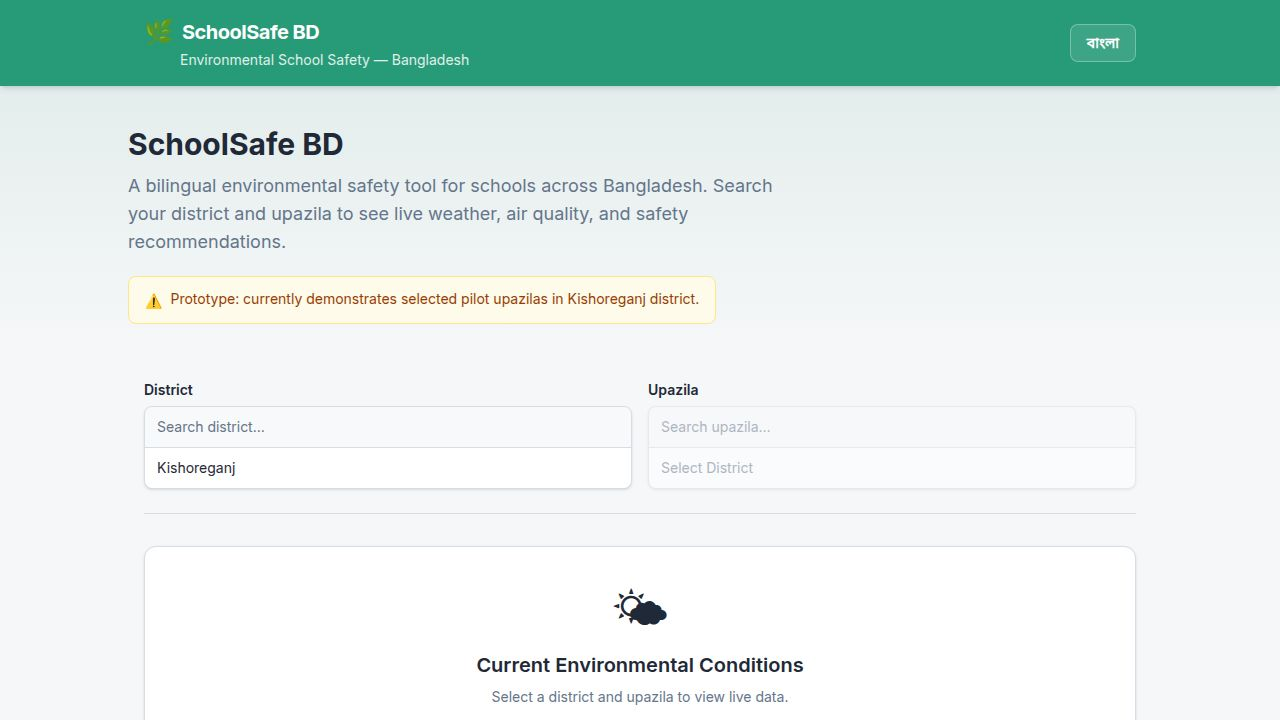
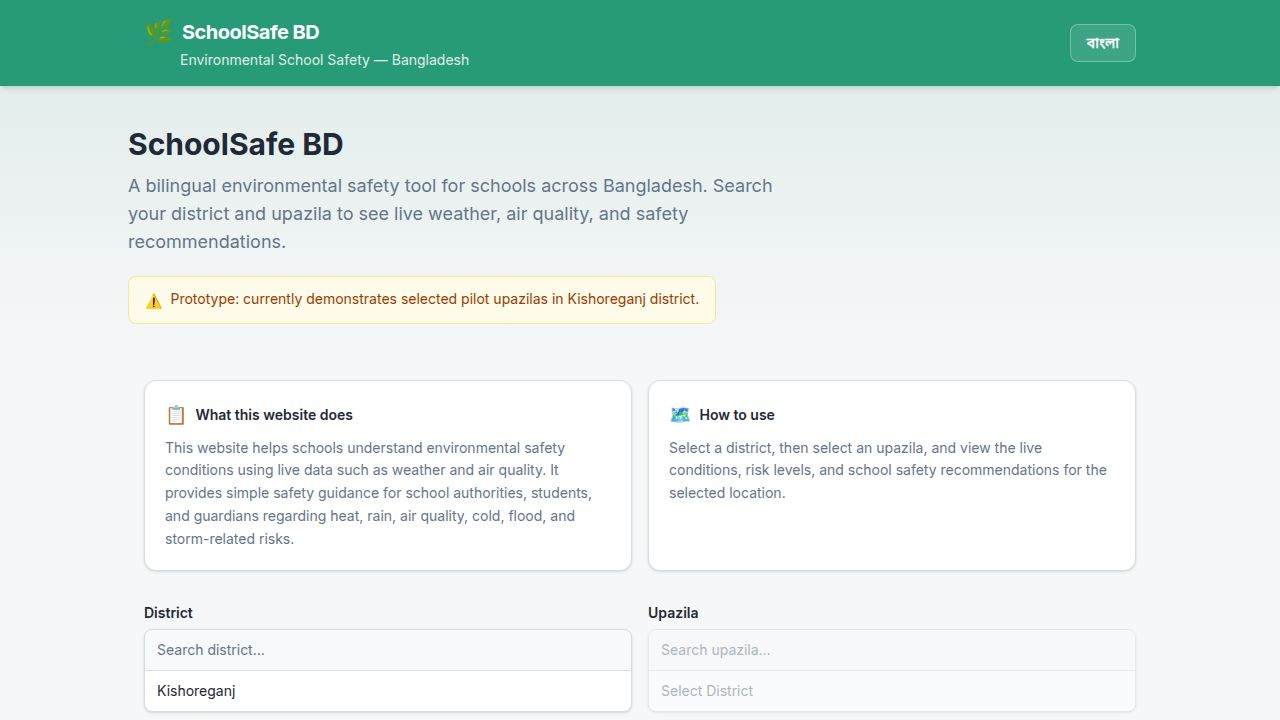
feat: add shareable link button for WhatsApp/SMS sharing (Task #11)
## What was done
Added a native "Share / শেয়ার" button next to the existing Print button in the
Dashboard header. The button uses the Web Share API (navigator.share) on mobile
to open the OS share sheet (WhatsApp, SMS, etc.), and falls back to clipboard
copy with a toast notification on desktop.

## Implementation details
- Dashboard.tsx: added handleShare() async function that:
  - Calls navigator.share() with title, text summary (location, overall safety,
    temp, humidity, wind, rain, and page URL), and the page URL on mobile
  - On AbortError (user cancelled native share) → silently ignored, no toast
  - On any other navigator.share failure → falls back to clipboard copy + toast
  - Falls back to navigator.clipboard.writeText(url) on desktop (no share API)
  - Shows a sonner toast on clipboard success ("Link copied to clipboard!") or
    error ("Could not share. Please copy the link manually.")
- Dashboard.tsx: added green-styled 📤 "Share / শেয়ার" button next to the
  existing print button in the header flex row
- App.tsx: added Sonner <Toaster position="bottom-center" richColors /> to the
  app root so toasts render globally
- en.ts + bn.ts: added three new translation keys:
  shareButton, shareToastCopied, shareToastFailed (bilingual, English + Bangla)

## Code review fix
Distinguished AbortError (user cancel) from real share failures in the
navigator.share catch block — real failures now fall through to clipboard copy.

## Testing
[…]

diff --git a/artifacts/schoolsafe-bd/src/components/Dashboard.tsx b/artifacts/schoolsafe-bd/src/components/Dashboard.tsx
@@ -14,6 +14,7 @@
  * ========================================================= */
 
 import { useQuery } from "@tanstack/react-query";
+import { toast } from "sonner";
 import { useLanguage } from "@/contexts/LanguageContext";
 import { fetchWeather, fetchAirQuality } from "@/utils/api";
 import { evaluateRisk } from "@/logic/riskEngine";
@@ -297,6 +298,45 @@ function DashboardPanel({
     return t("safetyLow");
   }
 
+  /* Share handler — native share sheet on mobile, clipboard fallback on desktop */
+  async function handleShare() {
+    const overall = levelLabel(risk.overall);
+    const shareTitle = `SchoolSafe BD — ${locationName}`;
+    const shareText =
+      `SchoolSafe BD | ${locationName}\n` +
+      `${t("overallSafetyTitle")}: ${overall}\n` +
+      `${t("temperature")}: ${weather.temperature.toFixed(1)}°C  ` +
+      `${t("humidity")}: ${Math.round(weather.humidity)}%\n` +
+      `${t("windSpeed")}: ${weather.windSpeed.toFixed(1)} km/h  ` +
+      `${t("rain")}: ${weather.rain.toFixed(1)} mm\n` +
+      window.location.href;
+    const shareUrl = window.location.href;
+
+    if (typeof navigator.share === "function") {
+      try {
+        await navigator.share({ title: shareTitle, text: shareText, url: shareUrl });
+      } catch (err) {
+        /* User cancelled → AbortError — ignore silently.
+           Any other failure falls through to clipboard copy. */
+        if (err instanceof Error && err.name !== "AbortError") {
+          try {
+            await navigator.clipboard.writeText(shareUrl);
+            toast.success(t("shareToastCopied"));
+          } catch {
+            toast.error(t("shareToastFailed"));
+          }
+        }
+      }
+    } else {
+      try {
+        await navigator.clipboard.writeText(shareUrl);
+        toast.success(t("shareToastCopied"));
+      } catch {
+        toast.error(t("shareToastFailed"));
+      }
+    }
+  }
+
   /* Contextual recommendations to show */
   const activeRecs = RECOMMENDATIONS.filter((rec) => rec.show(risk));
 
@@ -361,6 +401,14 @@ function DashboardPanel({
           >
             <span aria-hidden="true">🖨️</span>
             {t("printButton")}
+          </button>
+          <button
+            onClick={handleShare}
+            className="no-print shrink-0 flex items-center gap-1.5 px-3 py-1.5 rounded-lg border border-green-400/50 bg-green-50 hover:bg-green-100 active:bg-green-200 text-green-700 text-xs font-semibold transition-colors"
+            aria-label={t("shareButton")}
+          >
+            <span aria-hidden="true">📤</span>
+            {t("shareButton")}
           </button>
         </div>
       </div>

diff --git a/artifacts/schoolsafe-bd/src/translations/bn.ts b/artifacts/schoolsafe-bd/src/translations/bn.ts
@@ -216,6 +216,11 @@ const bn = {
   printButton: "প্রিন্ট / শেয়ার রিপোর্ট",
   printReportTitle: "দৈনিক বিদ্যালয় নিরাপত্তা রিপোর্ট",
   printGeneratedOn: "তৈরির তারিখ",
+
+  /* ── শেয়ার বোতাম ────────────────────────────────── */
+  shareButton: "Share / শেয়ার",
+  shareToastCopied: "লিংক ক্লিপবোর্ডে কপি হয়েছে!",
+  shareToastFailed: "শেয়ার করা যায়নি। লিংকটি নিজে কপি করুন।",
 };
 
 export default bn satisfies typeof en;

diff --git a/artifacts/schoolsafe-bd/src/translations/en.ts b/artifacts/schoolsafe-bd/src/translations/en.ts
@@ -212,6 +212,11 @@ const en = {
   printButton: "Print / Share Report",
   printReportTitle: "Daily School Safety Report",
   printGeneratedOn: "Generated on",
+
+  /* ── Share Button ────────────────────────────────── */
+  shareButton: "Share / শেয়ার",
+  shareToastCopied: "Link copied to clipboard!",
+  shareToastFailed: "Could not share. Please copy the link manually.",
 };
 
 export default en;

diff --git a/artifacts/schoolsafe-bd/src/App.tsx b/artifacts/schoolsafe-bd/src/App.tsx
@@ -6,6 +6,7 @@
 
 import { Switch, Route, Router as WouterRouter } from "wouter";
 import { QueryClient, QueryClientProvider } from "@tanstack/react-query";
+import { Toaster } from "@/components/ui/sonner";
 import { LanguageProvider } from "@/contexts/LanguageContext";
 import Header from "@/components/Header";
 import Footer from "@/components/Footer";
@@ -49,6 +50,7 @@ export default function App() {
               <Router />
             </div>
             <Footer />
+            <Toaster position="bottom-center" richColors />
           </div>
         </WouterRouter>
       </LanguageProvider>